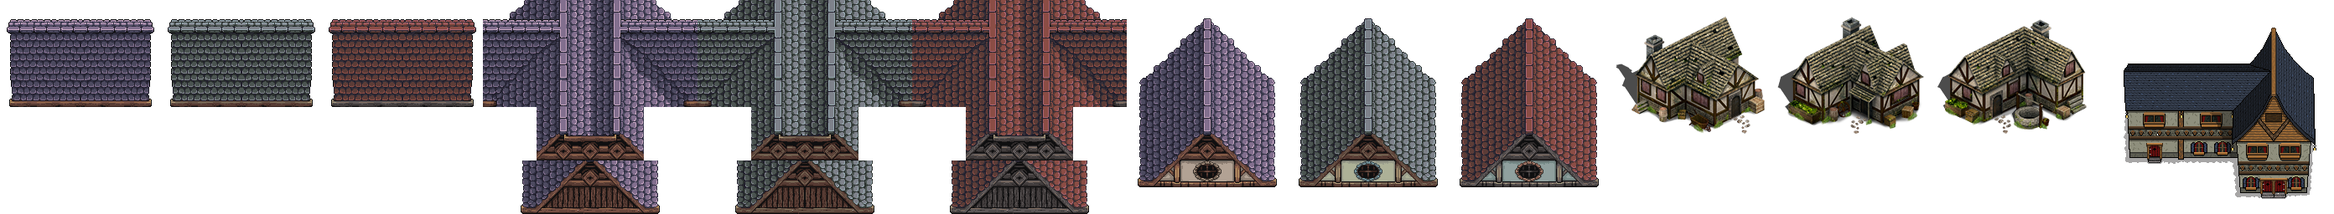
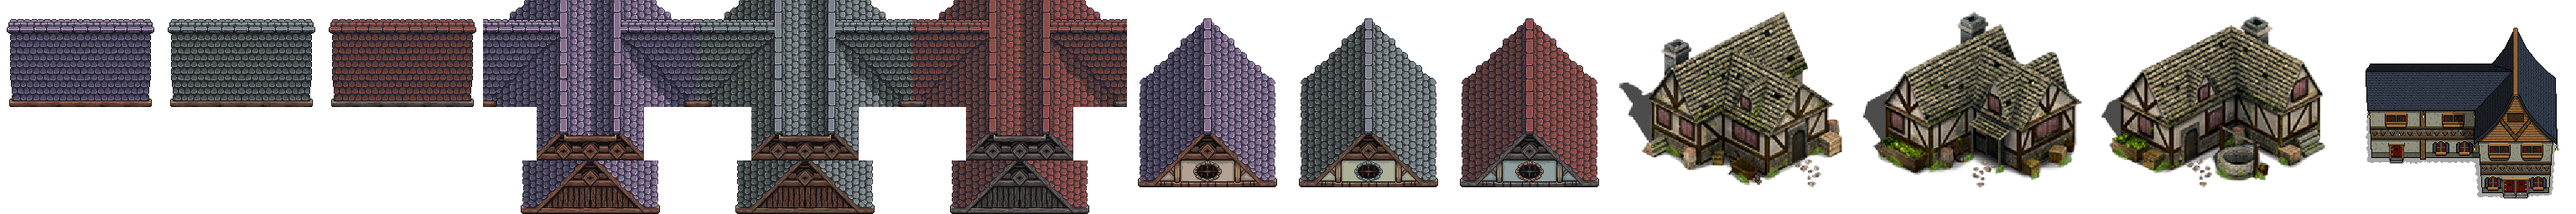
feat: casas de Lumera 1,5x maiores; vila redimensionada
As casas tinham 4,4 tiles de altura contra 2 do personagem — proporção de
casebre. Comparei 1x, 1,5x e 2x lado a lado com o boneco: 2x fica mais
limpo (pixel dobrado, sem tamanho desigual) mas dá 11x9 e não cabe no
mapa de 40x32; 1,5x dá 9x7 com proporção de casa de verdade.

A estalagem fica em 1x: já vem desenhada maior e, no tamanho de origem,
sai equivalente às outras. Ampliá-la a deixaria desproporcional.

Lumera foi redesenhada para os lotes maiores: dois de 9 mais a rua do
porto no meio dão 21 de largura. NPCs, destinos de viagem e o ponto de
renascimento acompanharam.

Uma armadilha que custou uma rodada: reescalei o atlas mas esqueci de
regenerar a tabela CASAS do world.js, que ficou com os tamanhos antigos.
Os prédios saíram 6x5 no lugar de 9x7 sem nenhum erro — o gerador
simplesmente usou números velhos.

diff --git a/public/shared/world.js b/public/shared/world.js
@@ -82,9 +82,9 @@ export const CASAS = {
   chale_roxo: [6, 7],
   chale_cinza: [6, 7],
   chale_vermelho: [6, 7],
-  house1: [6, 5],
-  house1b: [6, 5],
-  house1c: [6, 5],
+  house1: [9, 7],
+  house1b: [9, 7],
+  house1c: [9, 7],
   oga_blueroofinn: [9, 8],
 };
 
@@ -355,14 +355,16 @@ export function buildWorld() {
     // --- Vila de Lumera ---
     // Terreiro de terra batida com duas ruas calçadas. As ruas são
     // reservadas antes dos prédios, senão as casas as invadiriam.
-    preencher(m, 5, 11, 23, 29, 1);
-    reservar(m, 5, 19, 23, 21, 18);      // rua principal (leste-oeste)
-    reservar(m, 13, 11, 14, 29, 18);     // rua do porto (norte-sul)
-    reservar(m, 5, 29, 23, 29, 1);       // beira sul livre
+    // Vila redimensionada para as casas de 9x7: dois lotes de 9 mais a rua
+    // do porto no meio dão 21 de largura.
+    preencher(m, 4, 10, 24, 29, 1);
+    reservar(m, 4, 18, 24, 20, 18);      // rua principal (leste-oeste)
+    reservar(m, 13, 10, 15, 29, 18);     // rua do porto (norte-sul)
+    reservar(m, 4, 29, 24, 29, 1);       // beira sul livre
     // A borda norte NÃO é reservada de propósito: as casas da fileira de
     // cima começam em y=16, e reservá-la deixava o quarteirão inteiro vazio.
-    for (let y = 6; y < 16; y++) if (T[y][18] !== 2) T[y][18] = 1; // trilha às minas
-    reservar(m, 18, 6, 18, 16, 1);
+    for (let y = 6; y < 11; y++) if (T[y][14] !== 2) T[y][14] = 1; // trilha às minas
+    reservar(m, 14, 6, 14, 10, 1);
     T[30][14] = 18; T[31][14] = 18;      // descida para o porto
 
     // Lumera é vila, não cidade: quatro serviços essenciais e nada mais.
@@ -375,10 +377,10 @@ export function buildWorld() {
     // As três casas avulsas mais a estalagem de telhado azul: Lumera tem
     // exatamente quatro prédios, então o conjunto fecha certo.
     const SERVICOS_LUMERA = [
-      [6, 14, 'house1', 'armaria', 'Forja de Toren'],
-      [16, 14, 'house1b', 'botica', 'Botica de Mira'],
-      [6, 24, 'house1c', 'templo', 'Santuário de Lumera'],
-      [15, 21, 'oga_blueroofinn', 'estacao', 'Estalagem do Corvo'],
+      [4, 11, 'house1', 'armaria', 'Forja de Toren'],
+      [16, 11, 'house1b', 'botica', 'Botica de Mira'],
+      [4, 21, 'house1c', 'templo', 'Santuário de Lumera'],
+      [16, 21, 'oga_blueroofinn', 'estacao', 'Estalagem do Corvo'],
     ];
     for (const [bx, by, casa, tipo, nome] of SERVICOS_LUMERA) {
       const [cw, ch] = CASAS[casa];
@@ -390,11 +392,11 @@ export function buildWorld() {
     // colisão mas desenham 2, e colados escondem o vizinho.
     // A rua principal divide espaço com Toren (8,21) e Mira (19,21): o
     // mobiliário é posicionado em volta deles, não por cima.
-    objeto(m, 'engradado', 5, 20); objeto(m, 'lampiao', 6, 20);
-    objeto(m, 'banca', 10, 20);
+    objeto(m, 'engradado', 4, 19); objeto(m, 'lampiao', 5, 19);
+    objeto(m, 'banca', 9, 19);
     objeto(m, 'arbusto', 13, 21);
-    objeto(m, 'poco', 16, 20);
-    objeto(m, 'lampiao', 21, 20); objeto(m, 'barril', 22, 20);
+    objeto(m, 'poco', 17, 19);
+    objeto(m, 'lampiao', 23, 19); objeto(m, 'barril', 24, 19);
 
     T[28][4] = 4; T[4][35] = 4;
     m.holeAnchor = { x: 17, y: 3 };

diff --git a/public/shared/content.js b/public/shared/content.js
@@ -146,7 +146,7 @@ export const MTYPES = {
 // Tabela de nascimento: [tipo, mapa, x, y]
 export const SPAWNS = [
   // Ilha de Aurora — arredores de Lumera
-  ['slime', 'over', 7, 6], ['slime', 'over', 10, 9], ['slime', 'over', 5, 14], ['slime', 'over', 12, 13],
+  ['slime', 'over', 7, 6], ['slime', 'over', 10, 9], ['slime', 'over', 5, 7], ['slime', 'over', 10, 6],
   ['bee', 'over', 24, 8], ['bee', 'over', 31, 13], ['bee', 'over', 27, 17],
   // A cobra do pântano nascia em (30,23), que o gerador transforma em água:
   // ela ficava presa, sem poder se mover nem ser alcançada.
@@ -184,10 +184,10 @@ export const SPAWNS = [
 // ---------------------------------------------------------
 export const NPCS = [
   // --- Vila de Lumera: cada um na porta do seu estabelecimento ---
-  { id: 'toren', name: 'Toren — Ferreiro', img: 'villager_a', map: 'over', x: 8, y: 19 },
-  { id: 'mira', name: 'Mira — Alquimista', img: 'princess_a', map: 'over', x: 19, y: 19 },
-  { id: 'irina', name: 'Irina — Sacerdotisa', img: 'princess_c', map: 'over', x: 8, y: 29 },
-  { id: 'bento', name: 'Bento — Cocheiro', img: 'villager_b', map: 'over', x: 18, y: 29 },
+  { id: 'toren', name: 'Toren — Ferreiro', img: 'villager_a', map: 'over', x: 8, y: 18 },
+  { id: 'mira', name: 'Mira — Alquimista', img: 'princess_a', map: 'over', x: 20, y: 18 },
+  { id: 'irina', name: 'Irina — Sacerdotisa', img: 'princess_c', map: 'over', x: 7, y: 28 },
+  { id: 'bento', name: 'Bento — Cocheiro', img: 'villager_b', map: 'over', x: 20, y: 29 },
   { id: 'cedric', name: 'Cedric — Capitão da Guarda', img: 'guard_a', map: 'over', x: 13, y: 18 },
 
   // --- Ardentia: o eixo comercial de frente para a praça ---
@@ -216,15 +216,15 @@ export const BANCARIOS = ['gorm'];
 
 // Templos: onde se renasce. Ficam na porta do prédio, não dentro dele.
 export const TEMPLOS = {
-  lumera:   { nome: 'Santuário de Lumera',  map: 'over', x: 9,  y: 29 },
+  lumera:   { nome: 'Santuário de Lumera',  map: 'over', x: 9,  y: 28 },
   ardentia: { nome: 'Templo de Ardentia',   map: 'vale', x: 14, y: 13 },
 };
 
 // Viagem paga. O preço é o que separa "atalho conveniente" de "teleporte
 // que torna o mundo irrelevante" — andar continua sendo de graça.
 export const DESTINOS = {
-  lumera:    { nome: 'Lumera',                map: 'over', x: 19, y: 29, preco: 60 },
-  minas:     { nome: 'Entrada das Minas',     map: 'over', x: 18, y: 7,  preco: 35 },
+  lumera:    { nome: 'Lumera',                map: 'over', x: 21, y: 29, preco: 60 },
+  minas:     { nome: 'Entrada das Minas',     map: 'over', x: 14, y: 7,  preco: 35 },
   ardentia:  { nome: 'Ardentia',              map: 'vale', x: 31, y: 37, preco: 60 },
   cemiterio: { nome: 'Cemitério de Ardentia', map: 'vale', x: 17, y: 47, preco: 40 },
 };

diff --git a/tools/importar-casas.py b/tools/importar-casas.py
@@ -100,6 +100,14 @@ def altura_da_base(rec):
 # atlas, com o tamanho arredondado para cima até fechar tiles de 32.
 AVULSAS = RAIZ / 'tiled' / 'ref'
 
+# Ampliação por arquivo. As três casas vêm pequenas: 4,4 tiles de altura
+# contra 2 do personagem dá proporção de casebre. A 1,5x ficam 9x7, que é
+# altura de casa de verdade e ainda cabe no traçado de Lumera. A 2x seria
+# mais limpo (pixel dobrado, sem tamanho desigual), mas dá 11x9 e não cabe.
+# A estalagem já vem desenhada maior, e no tamanho de origem fica
+# equivalente às outras — ampliá-la a deixaria desproporcional.
+ESCALA_AVULSA = {'house1': 1.5, 'house1b': 1.5, 'house1c': 1.5}
+
 
 def importar_avulsas():
     if not AVULSAS.exists():
@@ -107,6 +115,10 @@ def importar_avulsas():
     saida = []
     for arq in sorted(AVULSAS.glob('*.png')):
         im = Image.open(arq).convert('RGBA')
+        fator = ESCALA_AVULSA.get(arq.stem, 1.0)
+        if fator != 1.0:
+            im = im.resize((round(im.width * fator), round(im.height * fator)),
+                           Image.NEAREST)
         tw, th = -(-im.width // T), -(-im.height // T)
         tela = Image.new('RGBA', (tw * T, th * T), (0, 0, 0, 0))
         tela.alpha_composite(im, ((tw * T - im.width) // 2, th * T - im.height))
